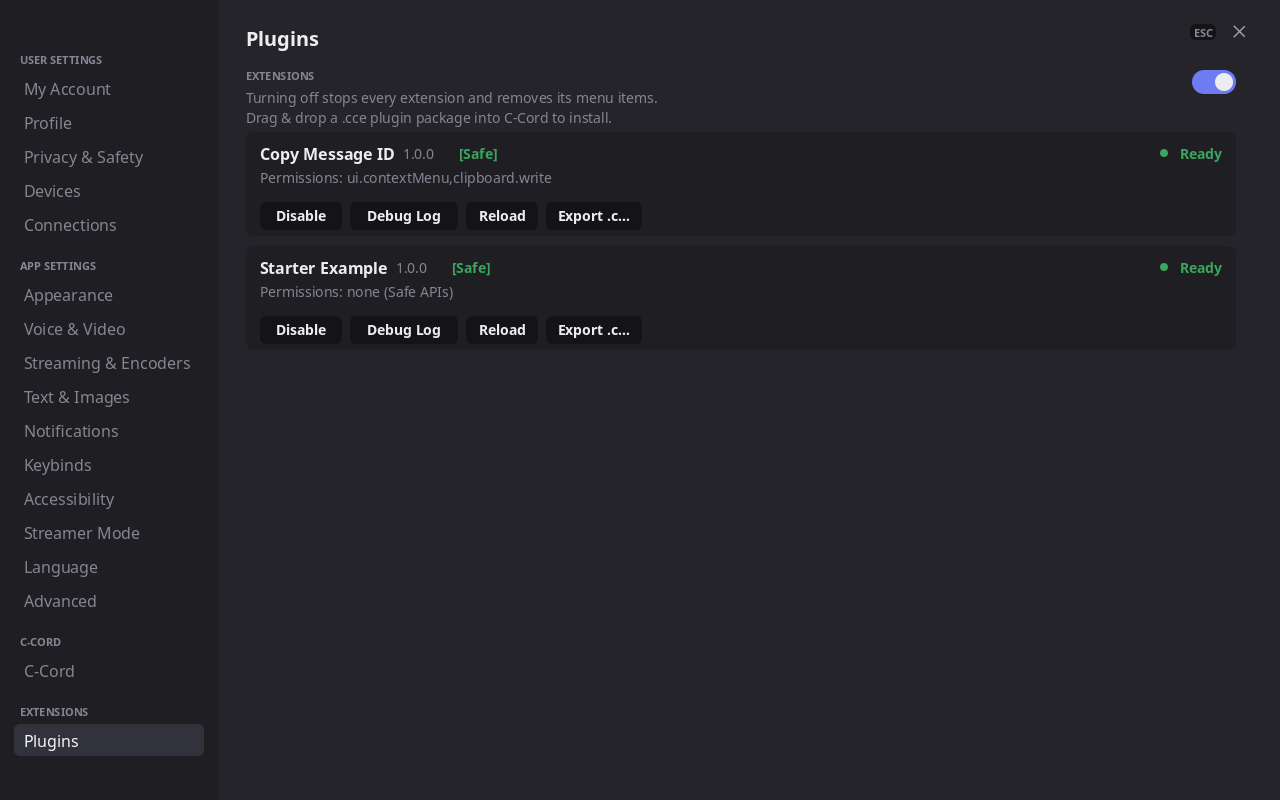
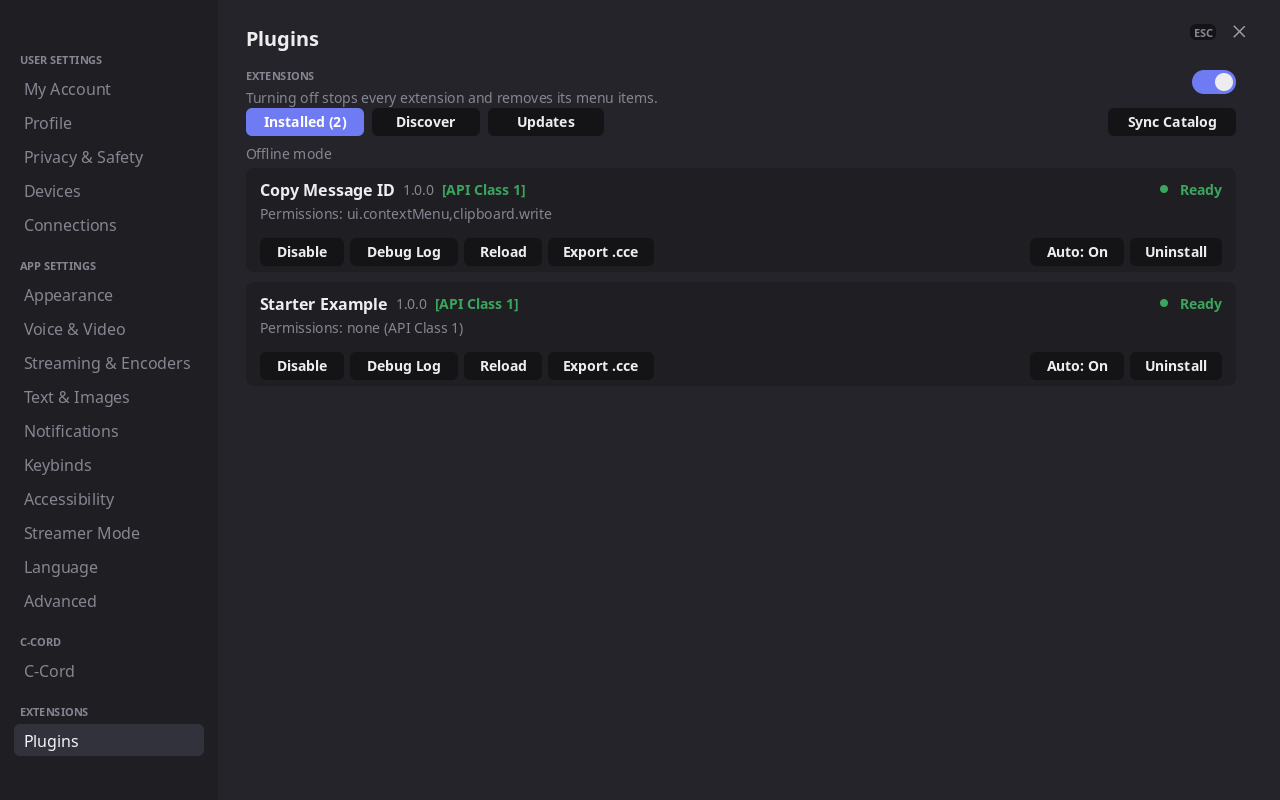
Add ccord://plugins/install/<id> deep-link install prompt and polish plugin button widths

diff --git a/src/ui/settings.c b/src/ui/settings.c
@@ -1396,11 +1396,11 @@ static ccord_color plugin_api_class_color(const ccord_ui *ui, uint8_t api_class)
 static void plugin_subtab_rects(const sgeom *g, ccord_rect *tab_inst, ccord_rect *tab_disc,
                                 ccord_rect *tab_upd, ccord_rect *btn_sync)
 {
-  float x = g->content.x, y = g->content.y + 80.0f, w = g->content.w;
-  *tab_inst = (ccord_rect){x, y, 114.0f, UIS_H_BTN_SM};
-  *tab_disc = (ccord_rect){x + 122.0f, y, 108.0f, UIS_H_BTN_SM};
-  *tab_upd  = (ccord_rect){x + 238.0f, y, 116.0f, UIS_H_BTN_SM};
-  *btn_sync = (ccord_rect){x + w - 110.0f, y, 110.0f, UIS_H_BTN_SM};
+  float x = g->content.x, y = g->content.y + 84.0f, w = g->content.w;
+  *tab_inst = (ccord_rect){x, y, 118.0f, UIS_H_BTN_SM};
+  *tab_disc = (ccord_rect){x + 126.0f, y, 108.0f, UIS_H_BTN_SM};
+  *tab_upd  = (ccord_rect){x + 242.0f, y, 116.0f, UIS_H_BTN_SM};
+  *btn_sync = (ccord_rect){x + w - 128.0f, y, 128.0f, UIS_H_BTN_SM};
 }
 
 static float plugin_card_layout(const sgeom *g, size_t idx, const ccord_plugin_info *p, float y, plugin_card_rects *out)
@@ -1414,13 +1414,13 @@ static float plugin_card_layout(const sgeom *g, size_t idx, const ccord_plugin_i
   float x = g->content.x, w = g->content.w;
   float by = y + h - 34.0f;
   out->card = (ccord_rect){x, y, w, h};
-  out->btn_toggle = (ccord_rect){x + 14.0f, by, p->state == CCORD_PLUGIN_NEEDS_CONSENT ? 114.0f : 74.0f, UIS_H_BTN_SM};
+  out->btn_toggle = (ccord_rect){x + 14.0f, by, p->state == CCORD_PLUGIN_NEEDS_CONSENT ? 120.0f : 84.0f, UIS_H_BTN_SM};
   float bx = out->btn_toggle.x + out->btn_toggle.w + 6.0f;
-  out->btn_log = (ccord_rect){bx, by, 96.0f, UIS_H_BTN_SM};
+  out->btn_log = (ccord_rect){bx, by, 108.0f, UIS_H_BTN_SM};
   bx += out->btn_log.w + 6.0f;
-  out->btn_reload = (ccord_rect){bx, by, 66.0f, UIS_H_BTN_SM};
+  out->btn_reload = (ccord_rect){bx, by, 78.0f, UIS_H_BTN_SM};
   bx += out->btn_reload.w + 6.0f;
-  out->btn_export = (ccord_rect){bx, by, 86.0f, UIS_H_BTN_SM};
+  out->btn_export = (ccord_rect){bx, by, 106.0f, UIS_H_BTN_SM};
   bx += out->btn_export.w + 6.0f;
   if (has_upd && bx + 106.0f <= x + w - 14.0f) {
     out->btn_update = (ccord_rect){bx, by, 106.0f, UIS_H_BTN_SM};
@@ -1428,9 +1428,9 @@ static float plugin_card_layout(const sgeom *g, size_t idx, const ccord_plugin_i
   }
   if (!p->is_bundled) {
     float rx = x + w - 14.0f;
-    if (rx - 78.0f >= bx) {
-      rx -= 78.0f;
-      out->btn_uninstall = (ccord_rect){rx, by, 78.0f, UIS_H_BTN_SM};
+    if (rx - 92.0f >= bx) {
+      rx -= 92.0f;
+      out->btn_uninstall = (ccord_rect){rx, by, 92.0f, UIS_H_BTN_SM};
       rx -= 6.0f;
     }
     if (rx - 94.0f >= bx) {
@@ -1755,10 +1755,17 @@ static bool handle_page_controls(ccord_ui *ui, const sgeom *g, float x, float y)
       }
       if (s_plugin_detail_id[0]) {
         const ccord_catalog_entry *e = ccord_contrib_catalog_find(ui->d.contrib, s_plugin_detail_id);
-        if (!e) { s_plugin_detail_id[0] = '\0'; return true; }
         if (ui_in_rect(x, y, (ccord_rect){px, py, 86.0f, UIS_H_BTN_SM})) {
           s_plugin_detail_id[0] = '\0';
           return true;
+        }
+        if (!e) {
+          ccord_rect box = {px, py + 34.0f, pw, 128.0f};
+          if (ui_in_rect(x, y, (ccord_rect){box.x + 16.0f, box.y + box.h - 44.0f, 120.0f, UIS_H_BTN})) {
+            ccord_contrib_catalog_refresh(ui->d.contrib);
+            return true;
+          }
+          return false;
         }
         ccord_rect box = {px, py + 34.0f, pw, 286.0f};
         if (!e->bundled && !e->installing && (!e->installed || e->update_available)) {
@@ -2831,11 +2838,27 @@ static void draw_plugins(ccord_ui *ui, ccord_renderer *r, const sgeom *g)
     }
   }
 
-  // Inline Catalog Plugin Detail view
+  // Inline Catalog Plugin Detail view (also used by ccord://plugins/install/<id> deep links)
   if (s_plugin_detail_id[0]) {
     const ccord_catalog_entry *e = ccord_contrib_catalog_find(ui->d.contrib, s_plugin_detail_id);
-    if (!e) { s_plugin_detail_id[0] = '\0'; }
-    else {
+    if (!e) {
+      draw_button(ui, r, (ccord_rect){x, y, 86.0f, UIS_H_BTN_SM}, "Back", false);
+      ccord_rect box = {x, y + 34.0f, w, 128.0f};
+      uis_card(ui, r, box);
+      char hdr[128];
+      if (!cst || !cst->has_loaded || cst->syncing) {
+        snprintf(hdr, sizeof hdr, "Loading %s from catalog...", s_plugin_detail_id);
+      } else {
+        snprintf(hdr, sizeof hdr, "Plugin not found in catalog: %s", s_plugin_detail_id);
+      }
+      ccord_text_draw_ellipsis(r, hdr, strlen(hdr), box.x + 16.0f, box.y + 18.0f, box.w - 32.0f, &ns);
+      const char *sub = (!cst || !cst->has_loaded || cst->syncing)
+                            ? "Fetching verified metadata and SHA-256 digest before prompting for install."
+                            : "Try refreshing the catalog, or verify the plugin ID on plugins.c-cord.org.";
+      ccord_text_draw_ellipsis(r, sub, strlen(sub), box.x + 16.0f, box.y + 46.0f, box.w - 32.0f, &ms);
+      draw_button(ui, r, (ccord_rect){box.x + 16.0f, box.y + box.h - 44.0f, 120.0f, UIS_H_BTN}, "Refresh", true);
+      return;
+    } else {
       draw_button(ui, r, (ccord_rect){x, y, 86.0f, UIS_H_BTN_SM}, "Back", false);
       ccord_rect box = {x, y + 34.0f, w, 286.0f};
       uis_card(ui, r, box);
@@ -3680,6 +3703,34 @@ void ccord_ui_open_account_settings(ccord_ui *ui)
   } else if (!ui->account_view.signed_in && ui->account_focus_field == 0) {
     ui->account_focus_field = 2;   // focus Email field by default
   }
+}
+
+bool ui_open_plugin_install_prompt(ccord_ui *ui, const char *plugin_id)
+{
+  if (!ui || !plugin_id || !plugin_id[0]) return false;
+  size_t len = strlen(plugin_id);
+  if (len == 0 || len > 64) return false;
+  if (!((plugin_id[0] >= 'a' && plugin_id[0] <= 'z') || (plugin_id[0] >= '0' && plugin_id[0] <= '9'))) return false;
+  for (size_t i = 0; i < len; i++) {
+    char c = plugin_id[i];
+    bool ok = (c >= 'a' && c <= 'z') || (c >= '0' && c <= '9') || c == '.' || c == '_' || c == '-';
+    if (!ok) return false;
+    if (c == '.' && i + 1 < len && plugin_id[i + 1] == '.') return false;
+  }
+  settings_init_defaults(ui);
+  ui_open_settings(ui, true);
+  ui->settings_page = SP_PLUGINS;
+  ui->settings_category = k_pages[SP_PLUGINS].category;
+  s_plugin_subtab = 1;
+  s_plugin_log_id[0] = '\0';
+  s_plugin_consent_id[0] = '\0';
+  snprintf(s_plugin_detail_id, sizeof s_plugin_detail_id, "%s", plugin_id);
+  if (ui->d.contrib && !ccord_contrib_catalog_find(ui->d.contrib, plugin_id)) {
+    ccord_contrib_catalog_refresh(ui->d.contrib);
+  }
+  ui_notice(ui, "Review plugin before installing: %.48s", plugin_id);
+  ui->dirty = true;
+  return true;
 }
 
 void ccord_ui_set_login_tab(ccord_ui *ui, int tab)

diff --git a/src/ui/ui.c b/src/ui/ui.c
@@ -4216,9 +4216,40 @@ static bool ui_open_invite_url(ccord_ui *ui, const char *url)
   return true;
 }
 
+// Handles deep links of the form ccord://plugins/install/<id> or ccord://plugin/<id>.
+// Never installs silently: always opens Settings -> Plugins with the review & install prompt.
+static bool ui_open_ccord_plugin_url(ccord_ui *ui, const char *url)
+{
+  if (!ui || !url) return false;
+  static const char *const k_prefixes[] = {
+    "ccord://plugins/install/",
+    "ccord://plugin/",
+  };
+  const char *rest = nullptr;
+  for (size_t i = 0; i < sizeof k_prefixes / sizeof k_prefixes[0]; i++) {
+    size_t plen = strlen(k_prefixes[i]);
+    if (strncasecmp(url, k_prefixes[i], plen) == 0) {
+      rest = url + plen;
+      break;
+    }
+  }
+  if (!rest || !rest[0]) return false;
+  char id[65];
+  size_t n = 0;
+  while (rest[n] && rest[n] != '/' && rest[n] != '?' && rest[n] != '#') {
+    if (n + 1 >= sizeof id) return false;
+    char c = rest[n];
+    if (c >= 'A' && c <= 'Z') c = (char)(c - 'A' + 'a');
+    id[n++] = c;
+  }
+  id[n] = '\0';
+  return ui_open_plugin_install_prompt(ui, id);
+}
+
 bool ui_open_url(ccord_ui *ui, const char *url, const char *label)
 {
   if (!ui || !url || !url[0]) return false;
+  if (ui_open_ccord_plugin_url(ui, url)) return true;
   if (ui_open_invite_url(ui, url)) return true;
   const char *target = url;
   const char *target_label = label;

diff --git a/src/ui/tests/test_ui_interaction.c b/src/ui/tests/test_ui_interaction.c
@@ -11478,6 +11478,14 @@ static void test_invite_preview_cards_and_url_opener(void)
   key(CCORD_KEY_ESCAPE, 0);
   frame(2);
 
+  // 2b. Opening a ccord://plugins/install/<id> deep link opens Settings -> Plugins review prompt without spawning a browser.
+  CT_CHECK(ccord_ui_open_url(F.ui, "ccord://plugins/install/org.ccord.example-plugin"));
+  frame(4);
+  CT_CHECK(F.open_url_calls == urls_before);
+  CT_CHECK(dbg().settings_open);
+  key(CCORD_KEY_ESCAPE, 0);
+  frame(2);
+
   // 3. Clicking a clan tag with an unknown/unavailable guild settles out of loading instead of staying stuck on "Loading server...".
   CT_CHECK(ccord_session_select_guild(F.session, g, &err) == CCORD_OK);
   CT_CHECK(ccord_session_select_channel(F.session, ch_id, &err) == CCORD_OK);

diff --git a/src/ui/ui_internal.h b/src/ui/ui_internal.h
@@ -1484,6 +1484,7 @@ void ui_member_look_of(const ccord_ui *ui, ccord_id guild, const ccord_member *m
 bool ui_in_rect(float x, float y, ccord_rect r);
 ccord_rect ui_rect(ccord_layout_rect r);
 void ui_open_settings(ccord_ui *ui, bool open);
+bool ui_open_plugin_install_prompt(ccord_ui *ui, const char *plugin_id);
 ccord_rect ui_settings_rect(const ccord_ui *ui, bool plugins_tab);   // plugins_tab: the tab button; else the Extensions switch row
 const ccord_channel *ui_selected_channel(const ccord_ui *ui);
 // Text, voice and stage channels carry a timeline + composer (a voice channel's own "Text Chat"); categories do not.
